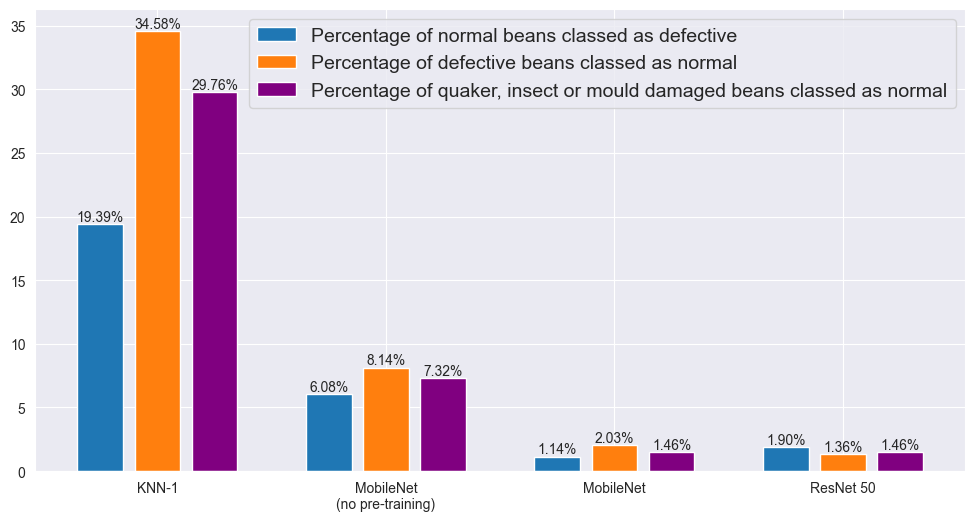
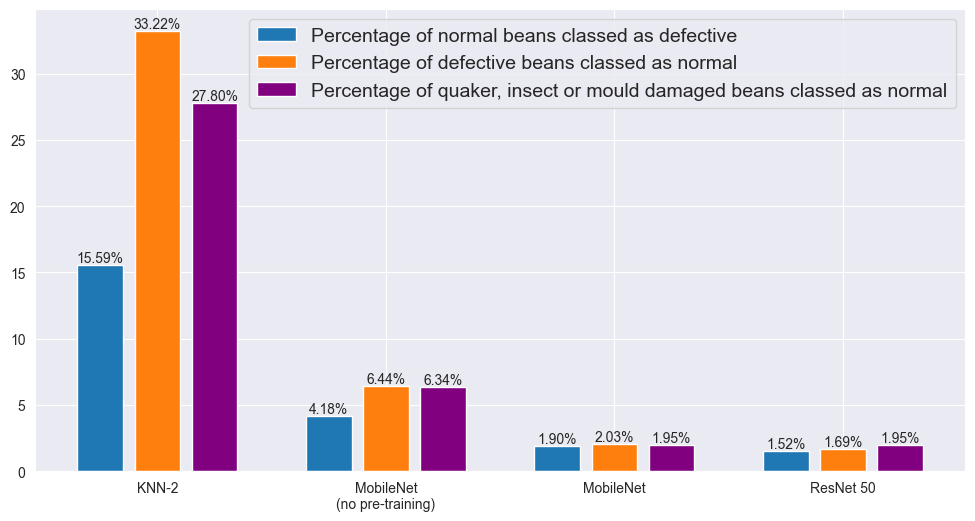
fix graph

diff --git a/report/chapters/execSummary.tex b/report/chapters/execSummary.tex
@@ -15,7 +15,7 @@ The resulting dataset has been used to train a suite of classifiers, ranging in 
 a pre-trained state-of-the-art network, with the MobileNet V2~\cite{mobileNet} architecture displaying the best results.
 
 The model showed potential for use in low-power or real-time systems, achieving an overall accuracy score of 95\% over 6 total classes with
-1.14\% of normal beans falsely classified as defective and 2.03\% of defective beans classified as normal, making the model
+1.90\% of normal beans falsely classified as defective and 2.03\% of defective beans classified as normal, making the model
 a powerful tool that can assist even the smallest-scale operations at a low computational cost.
 
 Further work has been identified as the development of a hardware prototype as well as in further developing the dataset,

diff --git a/report/chapters/results.tex b/report/chapters/results.tex
@@ -330,7 +330,7 @@ figure~\ref{fig:real-world-scores}.
         \toprule
         \textbf{Model} &  \textbf{\makecell{Prediction\\time (ms)}}\\
         \midrule
-        KNN-1 & 0.079 \\
+        KNN-2 & 0.079 \\
         MobileNet & 10.44 \\
         ResNet 50 & 20.34 \\
         \bottomrule
